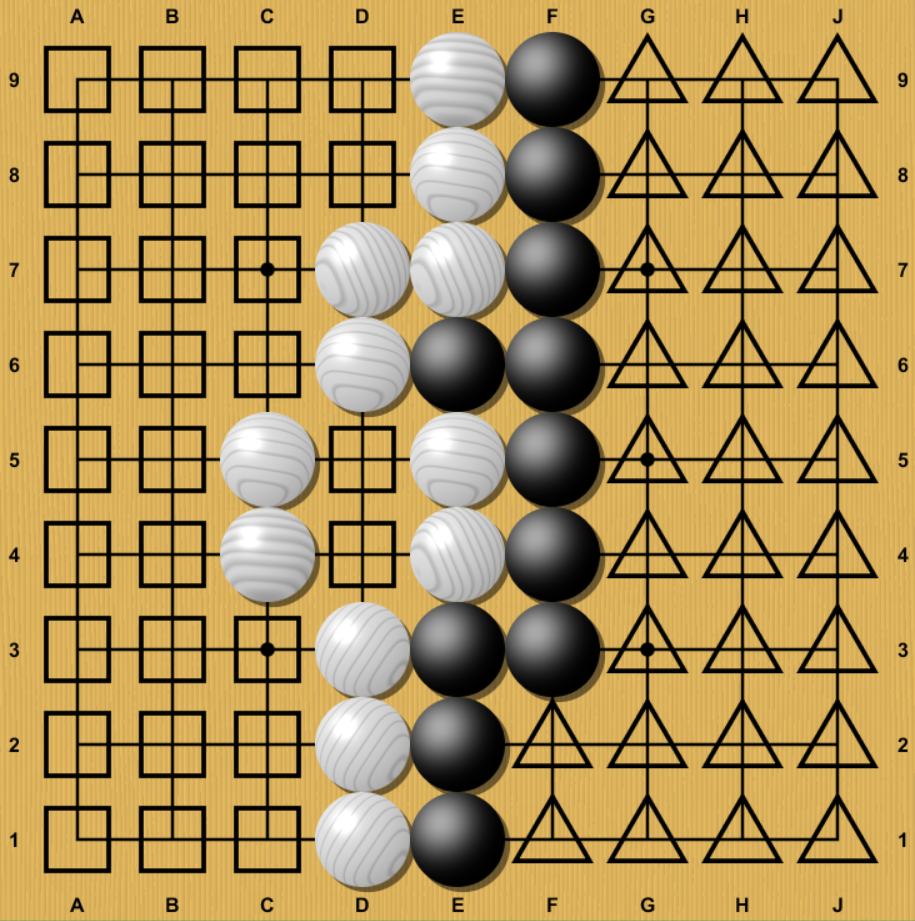
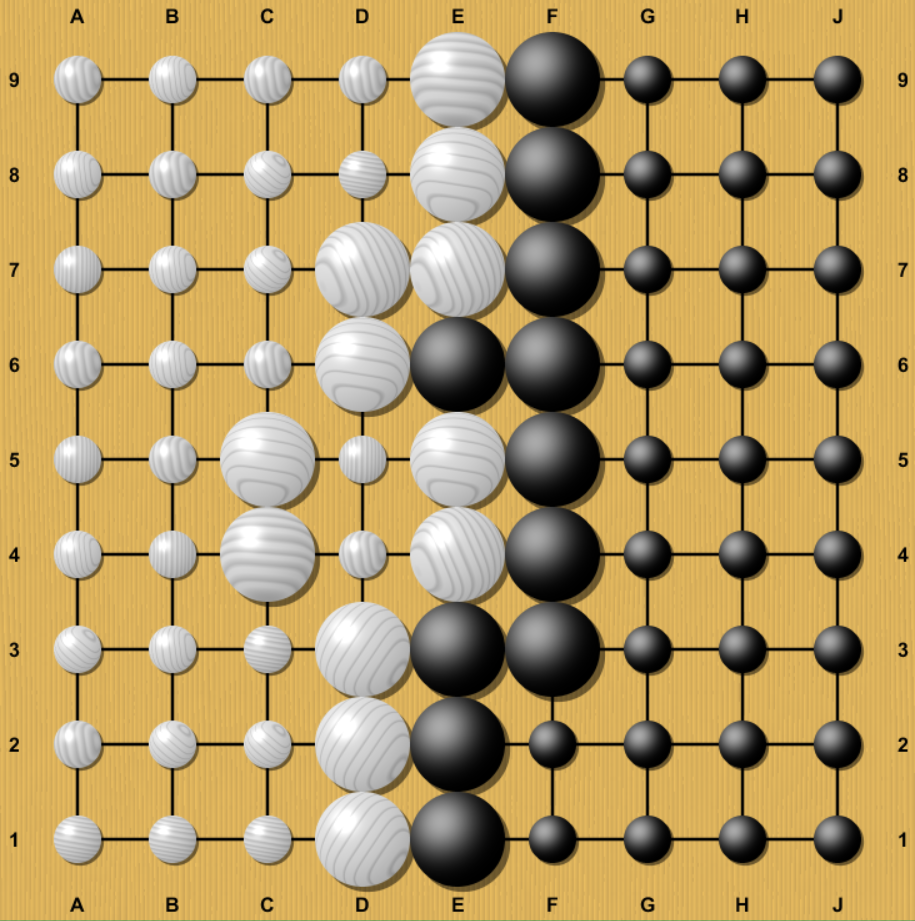
done with basic rules placing stones and surrounding territory, working on counting liberties and capturing stones section now

diff --git a/frontend/src/components/LearnAndPractice/BasicRulesPage7.js b/frontend/src/components/LearnAndPractice/BasicRulesPage7.js
@@ -1,0 +1,82 @@
+import React, { useEffect, useRef} from "react";
+
+import "../../lib/glift";
+
+/* global glift */ // For informing ESLint that glift is a global object, otherwise it gets mad, real mad, even though everything still works once we close the giant red screen
+
+const BasicRulesPage7 = () => {
+
+  const gliftInstance = useRef(null);
+
+  useEffect(() => {
+    // if (potentialPuzzlesData) {
+      const sgfCollection = [{
+        sgfString: "(;GM[1]FF[4]CA[UTF-8]AP[Glift]ST[2]\n" +
+        "RU[Japanese]SZ[19]KM[0.00]\n" +
+        "C[Black to play. There aren't many options " +
+        "to choose from, but you might be surprised at the answer!]" +
+        "PW[White]PB[Black]AW[pa][qa][nb][ob][qb][oc][pc][md][pd][ne][oe]\n" +
+        "AB[na][ra][mb][rb][lc][qc][ld][od][qd][le][pe][qe][mf][nf][of][pg]\n" +
+        "(;B[mc]\n" +
+          ";W[nc]C[White lives.])\n" +
+        "(;B[ma]\n" +
+          "(;W[oa]\n" +
+            ";B[nc]\n" +
+            ";W[nd]\n" +
+            ";B[mc]C[White dies.]GB[1])\n" +
+          "(;W[mc]\n" +
+            "(;B[oa]\n" +
+            ";W[nd]\n" +
+            ";B[pb]C[White lives])\n" +
+            "(;B[nd]\n" +
+              ";W[nc]\n" +
+              ";B[oa]C[White dies.]GB[1]))\n" +
+          "(;W[nd]\n" +
+            ";B[mc]\n" +
+            ";W[oa]\n" +
+            ";B[nc]C[White dies.]GB[1]))\n" +
+        "(;B[nc]\n" +
+          ";W[mc]C[White lives])\n" +
+        "(;B[]C[A default consideration]\n" +
+          ";W[mc]C[White lives easily]))",
+        // initialPosition: '', // ******* THIS AUTO PLAYS THE NEXT MOVE IN THE SGF if we play the sgf move?!?!?!?
+        // // initialPosition: puzzle.move_number - 1,
+        problemConditions: { GB: [] },
+        widgetType: "STANDARD_PROBLEM",
+      }];
+
+      const instance = glift.create({
+        sgfCollection,
+        divId: "gliftContainer",
+        display: {
+          drawBoardCoords: true,
+          disableZoomForMobile: true,
+        },
+      });
+
+      gliftInstance.current = instance;
+
+      return () => {
+        instance.destroy();
+        // Restore Glift's default behavior upon unmounting
+        // glift.api.iconActionDefaults["chevron-right"].click = defaultNextSgf;
+        // glift.api.iconActionDefaults["chevron-left"].click = defaultPrevSgf;
+      };
+    // }
+  }, []);
+
+  return (
+    <div className="tutorial-puzzle-page">
+      <h2>Basic Rules: Capturing Stones</h2>
+      <p>To capture a stone, you must take away all of the stone(s) liberties</p>
+      <p>A liberty is any straight line coming off of the stone(s)</p>
+      <p>How would we capture the following stone?</p>
+
+      <div className="glift-wrapper">
+      <div id="gliftContainer"></div>
+      </div>
+    </div>
+  );
+};
+
+export default BasicRulesPage7;

diff --git a/frontend/src/components/LearnAndPractice/BasicRulesPage6.js b/frontend/src/components/LearnAndPractice/BasicRulesPage6.js
@@ -6,71 +6,13 @@ import "../../lib/glift";
 
 const BasicRulesPage6 = () => {
 
-  const gliftInstance = useRef(null);
-
-  useEffect(() => {
-    // if (potentialPuzzlesData) {
-      const sgfCollection = [{
-        sgfString: "(;GM[1]FF[4]CA[UTF-8]AP[Glift]ST[2]\n" +
-        "RU[Japanese]SZ[19]KM[0.00]\n" +
-        "C[Black to play. There aren't many options " +
-        "to choose from, but you might be surprised at the answer!]" +
-        "PW[White]PB[Black]AW[pa][qa][nb][ob][qb][oc][pc][md][pd][ne][oe]\n" +
-        "AB[na][ra][mb][rb][lc][qc][ld][od][qd][le][pe][qe][mf][nf][of][pg]\n" +
-        "(;B[mc]\n" +
-          ";W[nc]C[White lives.])\n" +
-        "(;B[ma]\n" +
-          "(;W[oa]\n" +
-            ";B[nc]\n" +
-            ";W[nd]\n" +
-            ";B[mc]C[White dies.]GB[1])\n" +
-          "(;W[mc]\n" +
-            "(;B[oa]\n" +
-            ";W[nd]\n" +
-            ";B[pb]C[White lives])\n" +
-            "(;B[nd]\n" +
-              ";W[nc]\n" +
-              ";B[oa]C[White dies.]GB[1]))\n" +
-          "(;W[nd]\n" +
-            ";B[mc]\n" +
-            ";W[oa]\n" +
-            ";B[nc]C[White dies.]GB[1]))\n" +
-        "(;B[nc]\n" +
-          ";W[mc]C[White lives])\n" +
-        "(;B[]C[A default consideration]\n" +
-          ";W[mc]C[White lives easily]))",
-        // initialPosition: '', // ******* THIS AUTO PLAYS THE NEXT MOVE IN THE SGF if we play the sgf move?!?!?!?
-        // // initialPosition: puzzle.move_number - 1,
-        problemConditions: { GB: [] },
-        widgetType: "STANDARD_PROBLEM",
-      }];
-
-      const instance = glift.create({
-        sgfCollection,
-        divId: "gliftContainer",
-        display: {
-          drawBoardCoords: true,
-          disableZoomForMobile: true,
-        },
-      });
-
-      gliftInstance.current = instance;
-
-      return () => {
-        instance.destroy();
-        // Restore Glift's default behavior upon unmounting
-        // glift.api.iconActionDefaults["chevron-right"].click = defaultNextSgf;
-        // glift.api.iconActionDefaults["chevron-left"].click = defaultPrevSgf;
-      };
-    // }
-  }, []);
 
   return (
-    <div className="tutorial-puzzle-page">
-      <h2>Basic Rules: Capturing Stones</h2>
-      <p>To capture a stone, you must take away all of the stone(s) liberties</p>
+    <div className="main-content">
+      <h2>Basic Rules: Counting Liberties and Capturing Stones</h2>
       <p>A liberty is any straight line coming off of the stone(s)</p>
-      <p>How would we capture the following stone?</p>
+      <p>To capture a stone, you must take away all of the stone(s) liberties</p>
+      <p>See the diagrams to see how we capture stones</p>
 
       <div className="glift-wrapper">
       <div id="gliftContainer"></div>

diff --git a/frontend/src/components/LearnAndPractice/BasicRulesPage5.js b/frontend/src/components/LearnAndPractice/BasicRulesPage5.js
@@ -8,15 +8,26 @@ const BasicRulesPage5 = () => {
 
 
   return (
-    <div className="main-content">
-      <h2>Basic Rules: Counting Liberties and Capturing Stones</h2>
-      <p>A liberty is any straight line coming off of the stone(s)</p>
-      <p>To capture a stone, you must take away all of the stone(s) liberties</p>
-      <p>See the diagrams to see how we capture stones</p>
+    <div className="tutorial-puzzle-page">
+      <h2>Basic Rules: Placing Stones & Surrounding Territory 5</h2>
+      <p>Since this is the 9 by 9 board (there are 9 intersections vertically and horizontally), we know that black has
+        9 times 3 points in the red rectangle highlighted below. Black also has 2 more points at F1 and F2, so black has
+        as total of 27 + 2 = 29 points.
+      </p>
+      <p>We can then move the 2 white stones at C4 and C5 over to the right to simplify white's territory to make it easier to count.
+        Once you visualize those 2 white stones shifted over to D4 and D5, white now also has 9 times 3 points, with 2 extra points at D8 and D9.
+        The shape is a reflection of black's territory!
+      </p>
+      <p><span className="important-text">Takeaway: </span>We can count territory by using multiplication, and we can simplify the
+      territory by shifting stones to the edges to make the shape easier to count.  If you play in person, you may notice players shift the stones
+      to the border during the counting phase of the game to make it easier to count.
+      Please be careful not to shift the boundaries otherwise the amount of territory will also be changed, and you could be accused of cheating.</p>
 
-      <div className="glift-wrapper">
-      <div id="gliftContainer"></div>
-      </div>
+      <img
+        src="/learn-and-practice-images/basic-rules-7.png"
+        alt="basic-rules-7"
+      />
+
     </div>
   );
 };

diff --git a/frontend/src/components/LearnAndPractice/BasicRulesPage4.js b/frontend/src/components/LearnAndPractice/BasicRulesPage4.js
@@ -10,7 +10,12 @@ const BasicRulesPage4 = () => {
   return (
     <div className="tutorial-puzzle-page">
       <h2>Basic Rules: Placing Stones & Surrounding Territory 4</h2>
-      <p>If you said that it's a tie, great job! Both players have 29 points</p>
+      <p>If you said that it's a <span className="important-text">tie</span>, great job! Both players have 29 points.
+      In the below diagram, each smaller circle represents a surrounded point of territory.</p>
+      <p> <span className="important-text">Terminology: </span>
+      White wins all ties, due to <span className="important-text">komi</span>. Since white usually goes second, white gets at least 0.5 points of komi.
+      Most of the time you will see that white gets 6.5 or 7.5 komi to offset black's first move. </p>
+      <p>Can you think of a faster or more efficient way to figure out who won instead of counting each individual point? Hint: Use math we learned from school 🤣</p>
       <img
         src="/learn-and-practice-images/basic-rules-6.png"
         alt="basic-rules-6"

diff --git a/frontend/src/components/LearnAndPractice/LearnAndPracticeBasicRules.js b/frontend/src/components/LearnAndPractice/LearnAndPracticeBasicRules.js
@@ -8,6 +8,7 @@ import BasicRulesPage3 from "./BasicRulesPage3";
 import BasicRulesPage4 from "./BasicRulesPage4";
 import BasicRulesPage5 from "./BasicRulesPage5";
 import BasicRulesPage6 from "./BasicRulesPage6";
+import BasicRulesPage7 from "./BasicRulesPage7";
 
 const LearnAndPracticeBasicRules = () => {
   const history = useHistory();
@@ -46,6 +47,7 @@ const LearnAndPracticeBasicRules = () => {
         pageNumber === '4' ? <BasicRulesPage4 /> :
         pageNumber === '5' ? <BasicRulesPage5 /> :
         pageNumber === '6' ? <BasicRulesPage6 /> :
+        pageNumber === '7' ? <BasicRulesPage7 /> :
         <div>Page not found</div>
       }
       <button onClick={navigateToNextPage} className="next-page-button">

diff --git a/frontend/src/components/LearnAndPractice/BasicRulesPage2.js b/frontend/src/components/LearnAndPractice/BasicRulesPage2.js
@@ -15,7 +15,7 @@ const BasicRulesPage2 = () => {
           </p>
 
           <p>
-          <span className="takeaway">Takeaway:</span> We want to surround the corners first, then the sides, then the center.
+          <span className="important-text">Takeaway:</span> We want to surround the corners first, then the sides, then the center.
           </p>
 
           <p>

diff --git a/frontend/src/components/LearnAndPractice/LeftNavBar.js b/frontend/src/components/LearnAndPractice/LeftNavBar.js
@@ -9,6 +9,7 @@ const LeftNavBar = () => {
         <ul className="small-spaced-list">
           <li>Placing stones & surrounding territory</li>
           <li>Counting liberties and capturing stones</li>
+          <li>Basic Rules Quiz</li>
           <li>Terminology</li>
         </ul>
       </div>

diff --git a/frontend/src/components/LearnAndPractice/styles/LearnAndPracticeIndex.css b/frontend/src/components/LearnAndPractice/styles/LearnAndPracticeIndex.css
@@ -149,7 +149,7 @@
 
 /********** End of Styling diagrams, text for diagrams, and next page button **********/
 
-.takeaway {
+.important-text {
   color: rgb(255, 204, 102);
   font-weight: bold;
 }
